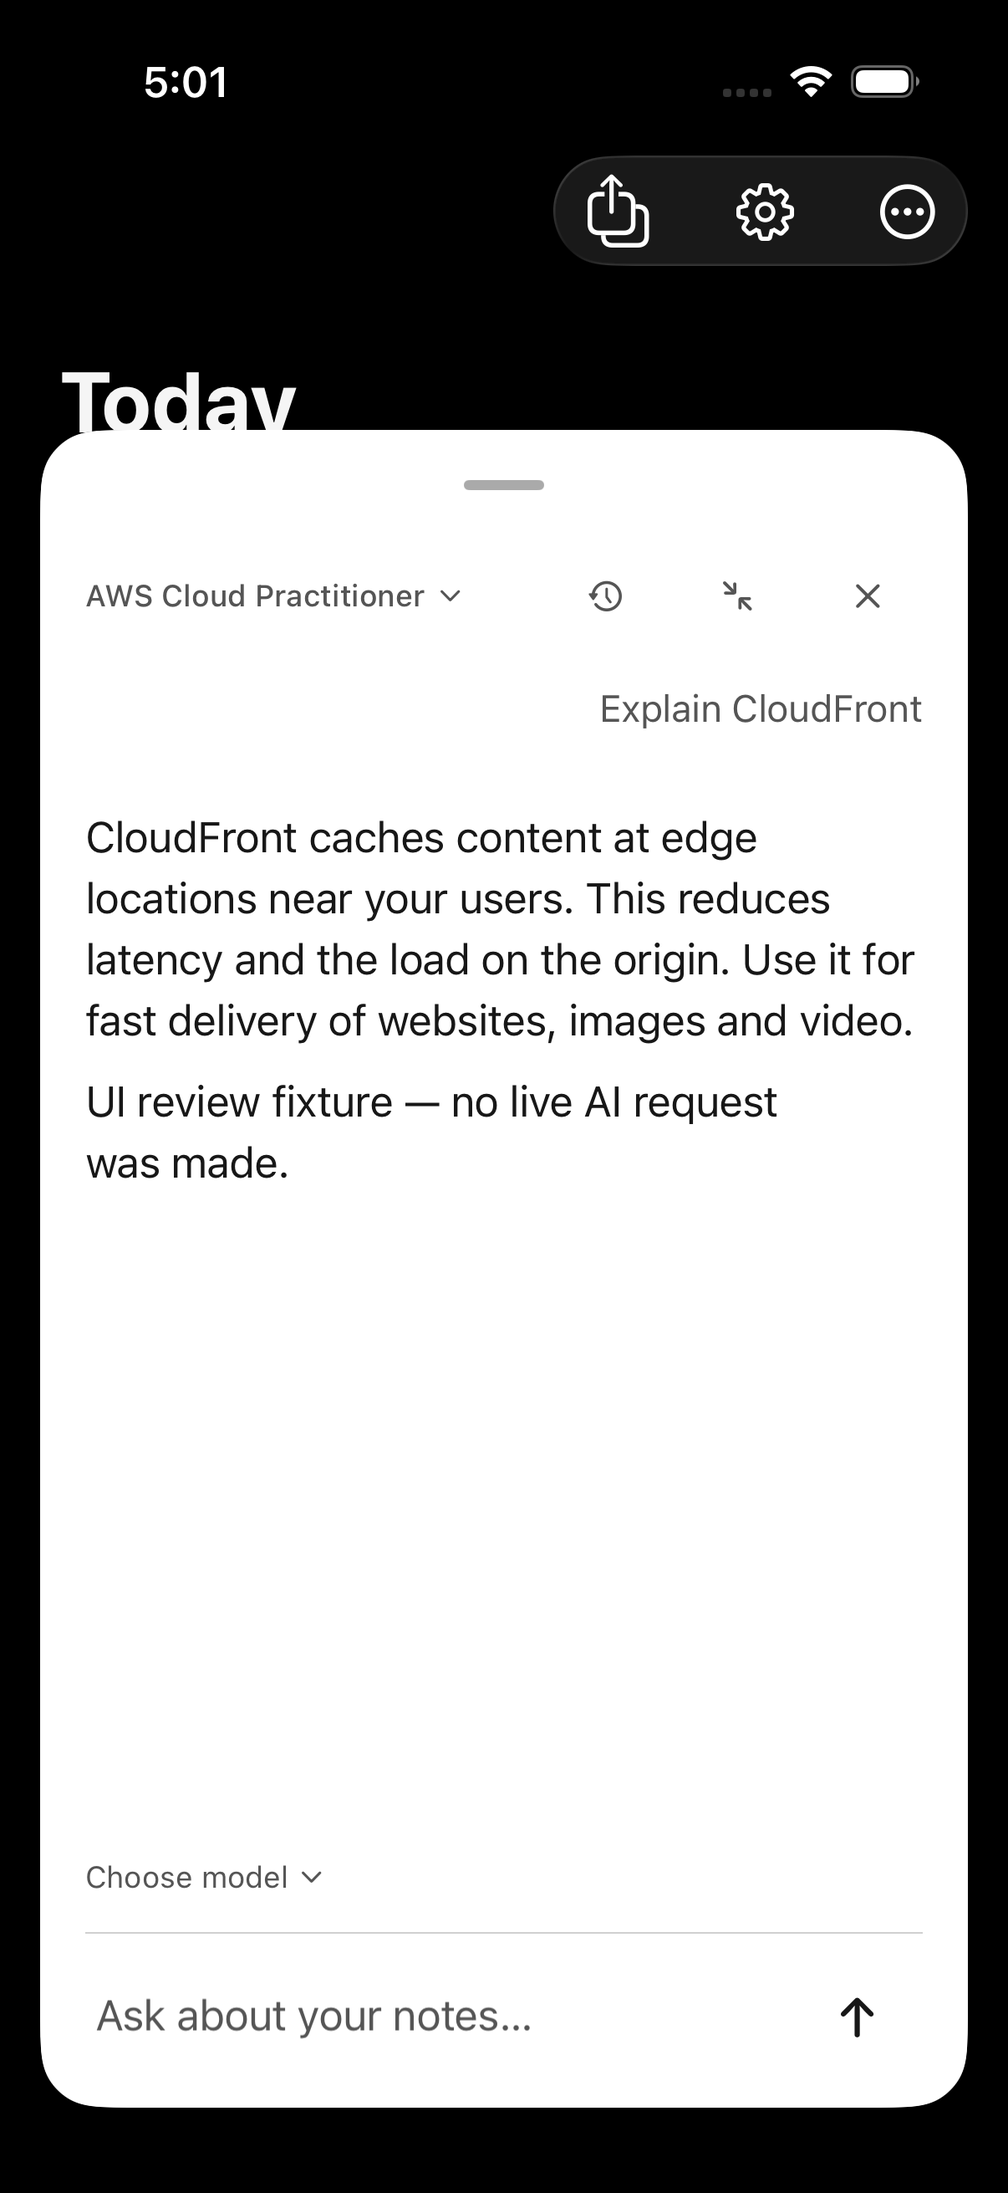
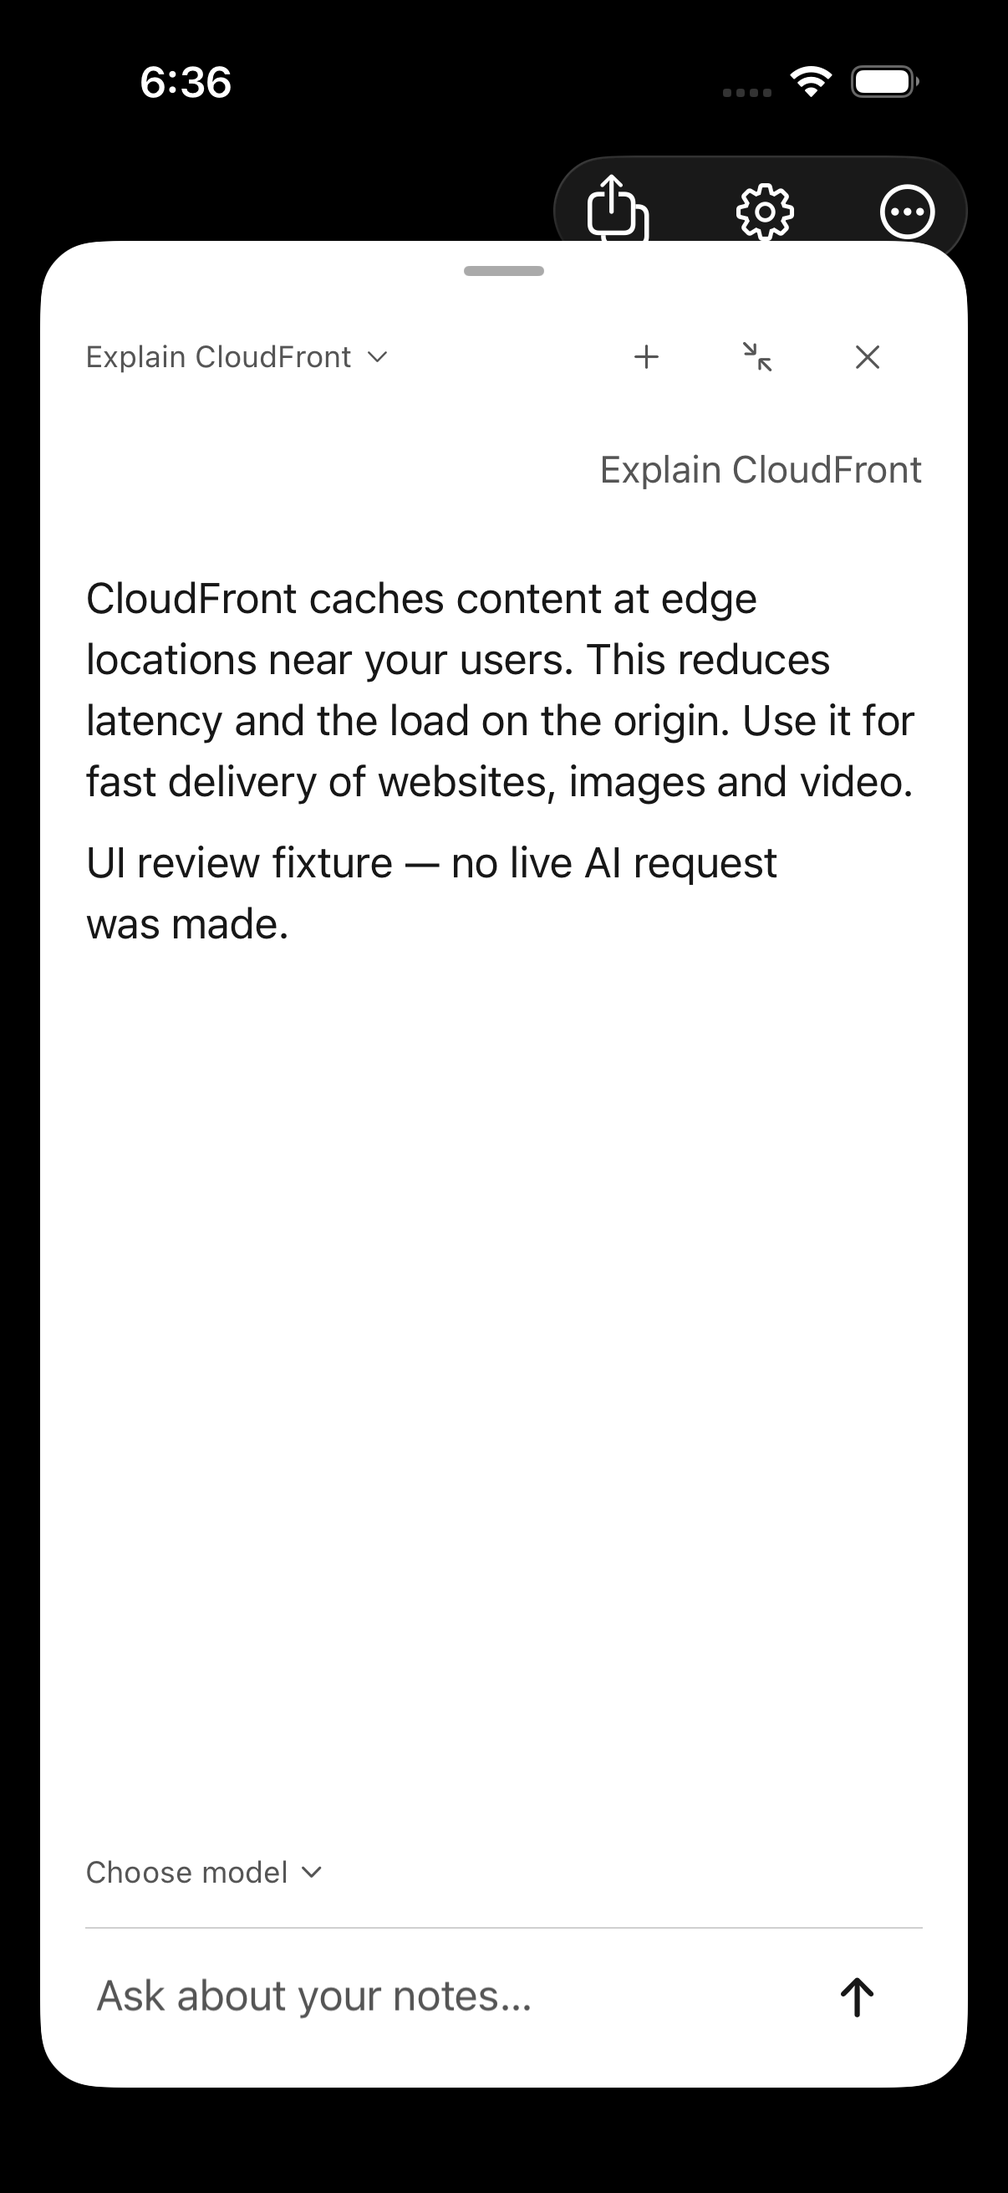
Refine assistant glass composer and outlined content-sized chat

diff --git a/Sources/Features/ContextualAssistant.swift b/Sources/Features/ContextualAssistant.swift
@@ -2,6 +2,10 @@ import AIInfrastructure
 import SwiftUI
 import LearningCore
 import DesignSystem
+private struct AssistantTranscriptHeight: PreferenceKey {
+    static let defaultValue: CGFloat = 90
+    static func reduce(value: inout CGFloat, nextValue: () -> CGFloat) { value = nextValue() }
+}
 #if os(iOS)
 import UIKit
 #endif
@@ -49,6 +53,7 @@ struct ContextualAssistant: View {
     @State private var stage: PanelStage = .closed
     @State private var showingHistory = false
     @State private var selectedHistoryID: String?
+    @State private var transcriptHeight: CGFloat = 90
     @State private var prompt = ""
     @State private var composerEpoch = 0
     @State private var messages: [String: [AssistantMessage]] = [:]
@@ -164,9 +169,8 @@ struct ContextualAssistant: View {
                 Spacer(minLength: 0)
                 glassContainer {
                     if open {
-                        assistantSurface(panel(height: geometry.size.height)
+                        panel(height: geometry.size.height)
                             .foregroundStyle(chatPalette.primaryText).tint(chatPalette.accentInk)
-                            .environment(\.colorScheme, chatScheme), open: true)
                             .environment(\.colorScheme, chatScheme)
                     }
                     else { dock(narrow: phoneDock || geometry.size.width < 600) }
@@ -212,31 +216,40 @@ struct ContextualAssistant: View {
         #endif
     }
     @ViewBuilder private func assistantSurface<Content: View>(_ content: Content, open: Bool) -> some View {
-        if open && theme == .monochrome {
-            invertedChatSurface(content)
-        } else {
         #if os(iOS)
-        if #available(iOS 26.0, *), !reduceTransparency, contrast != .increased {
-            content.glassEffect(.regular.tint(open ? palette.selection : .clear).interactive(), in: .rect(cornerRadius: open ? 24 : 25))
-                .glassEffectID("assistant", in: glassNamespace)
-        } else { fallbackSurface(content, open: open) }
+        if #available(iOS 26.0,*), !reduceTransparency, contrast != .increased {
+            content.glassEffect(.regular.interactive(),in:.capsule)
+                .glassEffectID("assistant",in:glassNamespace)
+        } else { fallbackSurface(content,open:false) }
         #else
-        fallbackSurface(content, open: open)
+        fallbackSurface(content,open:false)
         #endif
-        }
     }
-    @ViewBuilder private func invertedChatSurface<Content: View>(_ content: Content) -> some View {
-        let surface = content.background(chatPalette.canvas, in: RoundedRectangle(cornerRadius: 24))
+    @ViewBuilder private func composerSurface<Content: View>(_ content: Content) -> some View {
         #if os(iOS)
-        if #available(iOS 26.0, *), !reduceTransparency, contrast != .increased {
-            surface.glassEffect(.clear.interactive(), in: .rect(cornerRadius: 24))
-                .glassEffectID("assistant", in: glassNamespace)
-        } else {
-            surface.matchedGeometryEffect(id: reduceMotion ? "panel" : "assistant", in: glassNamespace)
-        }
+        if #available(iOS 26.0,*), !reduceTransparency, contrast != .increased {
+            content.background(chatPalette.canvas.opacity(0.78),in:Capsule())
+                .glassEffect(.clear.tint(chatPalette.canvas.opacity(0.15)).interactive(),in:.capsule)
+                .glassEffectID("assistant",in:glassNamespace)
+        } else { composerFallback(content) }
         #else
-        surface.matchedGeometryEffect(id: reduceMotion ? "panel" : "assistant", in: glassNamespace)
+        composerFallback(content)
         #endif
+    }
+    private func composerFallback<Content: View>(_ content: Content) -> some View {
+        content.background(chatPalette.canvas.opacity(reduceTransparency || contrast == .increased ? 1 : 0.65),in:Capsule())
+            .background(.regularMaterial,in:Capsule())
+    }
+    @ViewBuilder private var readingBackdrop: some View {
+        if !showsTranscript { Color.clear }
+        else if reduceTransparency || contrast == .increased {
+            Rectangle().fill(chatPalette.canvas)
+                .overlay(Rectangle().strokeBorder(chatPalette.primaryText.opacity(0.18), lineWidth: 1))
+        } else {
+            Rectangle().fill(.regularMaterial)
+                .overlay(chatPalette.canvas.opacity(theme == .monochrome ? 0.78 : 0.68))
+                .overlay(Rectangle().strokeBorder(chatPalette.primaryText.opacity(0.18), lineWidth: 1))
+        }
     }
     private func fallbackSurface<Content: View>(_ content: Content, open: Bool) -> some View {
         content.background(open ? palette.selection : palette.surface, in: RoundedRectangle(cornerRadius: open ? 24 : 25))
@@ -297,7 +310,8 @@ struct ContextualAssistant: View {
     private func close() { composerFocused = false; showingHistory = false; withAnimation(motion) { stage = .closed } }
 
     private func panel(height: CGFloat) -> some View {
-        VStack(spacing: 0) {
+        VStack(spacing: 8) {
+          VStack(spacing:0) {
           Capsule().fill(chatPalette.secondaryText.opacity(0.5)).frame(width:32,height:4)
             .frame(maxWidth:.infinity,minHeight:24).contentShape(Rectangle())
             .gesture(DragGesture(minimumDistance:8).onEnded { value in changeStage(for:value.translation.height) })
@@ -317,11 +331,22 @@ struct ContextualAssistant: View {
                     }.frame(minHeight:44).contentShape(Rectangle())
                 }.accessibilityLabel("Chat history").disabled(busy)
                 Spacer(minLength:8)
+                if showingHistory {
                 Button(action:newChat) { Image(systemName:"plus").frame(width:44,height:44).contentShape(Rectangle()) }
                     .accessibilityLabel("New chat").disabled(busy)
+                }
                 Button { withAnimation(motion) { stage = expanded ? .medium : .expanded } } label: {
                     Image(systemName:expanded ? "arrow.down.right.and.arrow.up.left" : "arrow.up.left.and.arrow.down.right").frame(width:44,height:44).contentShape(Rectangle())
                 }.accessibilityLabel(expanded ? "Collapse assistant" : "Expand assistant")
+                Menu {
+                    ForEach(model.aiMarker.models, id: \.self) { id in
+                        Button(model.aiMarker.title(for:id)) { Task { await model.assistant.selectModel(id, contextID: activeConversationID, model: model) } }
+                    }
+                    if model.chatGPT.activeAccount == nil { Button("Connect ChatGPT") { close(); model.settingsRoute = "AI & Connections"; model.settingsPresented = true } }
+                    Button("Refresh models") { Task { await model.aiMarker.loadModels(connection: model.chatGPT) } }
+                } label: {
+                    Image(systemName:"ellipsis").font(.caption).frame(width:44,height:44).contentShape(Rectangle())
+                }.buttonStyle(.plain).accessibilityLabel("AI model: " + model.aiMarker.title(for:model.library.assistantState?.conversations.first(where: { $0.id == activeConversationID })?.modelID ?? model.aiMarker.chatModel)).disabled(busy)
                 Button(action:close) { Image(systemName:"xmark").frame(width:44,height:44).contentShape(Rectangle()) }
                     .accessibilityLabel("Close assistant")
             }.font(.caption).foregroundStyle(chatPalette.secondaryText).buttonStyle(.plain)
@@ -352,7 +377,7 @@ struct ContextualAssistant: View {
                                     RichContentView(source: message.text,
                                         alignment: message.isUser ? .trailing : .leading,
                                         textColor: message.isUser ? chatPalette.secondaryText : chatPalette.primaryText)
-                                        .font(message.isUser ? .subheadline : .body)
+                                        .font(message.isUser ? .subheadline.italic() : .body)
                                         .foregroundStyle(message.isUser ? chatPalette.secondaryText : chatPalette.primaryText)
                                         .multilineTextAlignment(message.isUser ? .trailing : .leading)
                                     if !message.isUser {
@@ -374,9 +399,12 @@ struct ContextualAssistant: View {
                             if busy { ProgressView("Thinking…").font(.caption) }
                             Color.clear.frame(height:1).id("assistant-bottom")
                         }.padding(.vertical, 10)
+                        .background(GeometryReader { content in Color.clear.preference(key:AssistantTranscriptHeight.self,value:content.size.height) })
                     }
+                    .accessibilityIdentifier("assistant-transcript")
                     .scrollDismissesKeyboard(.never)
-                    .frame(height: min(max(90, height * (expanded ? 0.72 : 0.32)), max(90, height - 170)))
+                    .frame(height: expanded ? min(max(90,height * 0.72),max(90,height - 160)) : min(max(80,transcriptHeight),min(max(90,height * 0.45),max(90,height - 160))))
+                    .onPreferenceChange(AssistantTranscriptHeight.self) { transcriptHeight = $0 }
                     .assistantScrollAnchors()
                     .onAppear { scrollChatToBottom(proxy) }
                     .onChange(of: thread.count) { _, _ in scrollChatToBottom(proxy) }
@@ -385,7 +413,7 @@ struct ContextualAssistant: View {
                     .onChange(of: model.assistant.output) { _, _ in scrollChatToBottom(proxy) }
                 }
             } else {
-                Color.clear.frame(height:min(max(90,height * (expanded ? 0.72 : 0.32)),max(90,height - 170)))
+                Color.clear.frame(height:expanded ? min(max(90,height * 0.72),max(90,height - 160)) : 24)
             }
           }
             if showsTranscript, let action = recentSavedAction,let change = action.changes.last(where: { $0.undoneAt == nil }),!showingHistory {
@@ -399,21 +427,8 @@ struct ContextualAssistant: View {
                 Button("Connect ChatGPT in Settings") { close(); model.settingsPresented = true }
                     .font(.caption.weight(.medium)).frame(maxWidth: .infinity, minHeight: 38, alignment: .leading)
             }
-            if showsTranscript && !showingHistory {
+            if busy || recentSavedAction != nil {
             HStack {
-                Menu {
-                    ForEach(model.aiMarker.models, id: \.self) { id in
-                        Button(model.aiMarker.title(for:id)) { Task { await model.assistant.selectModel(id, contextID: activeConversationID, model: model) } }
-                    }
-                    if model.chatGPT.activeAccount == nil { Button("Connect ChatGPT") { close(); model.settingsRoute = "AI & Connections"; model.settingsPresented = true } }
-                    Button("Refresh models") { Task { await model.aiMarker.loadModels(connection: model.chatGPT) } }
-                } label: {
-                    HStack(spacing: 4) {
-                        Text(model.aiMarker.title(for:model.library.assistantState?.conversations.first(where: { $0.id == activeConversationID })?.modelID ?? model.aiMarker.chatModel)).lineLimit(1)
-                        Image(systemName: "chevron.down").font(.system(size: 9, weight: .medium))
-                    }.foregroundStyle(chatPalette.secondaryText)
-                        .frame(minWidth:44,minHeight:44).contentShape(Rectangle())
-                }.buttonStyle(.plain).accessibilityLabel("AI model: " + model.aiMarker.title(for:model.library.assistantState?.conversations.first(where: { $0.id == activeConversationID })?.modelID ?? model.aiMarker.chatModel)).disabled(busy)
                 Spacer()
                 if busy { Button("Stop") { model.assistant.cancel() } }
                 if recentSavedAction != nil {
@@ -421,8 +436,10 @@ struct ContextualAssistant: View {
                 }
             }.font(.caption).frame(minHeight: 44)
             }
+          }.padding(.horizontal,16).padding(.bottom,12)
+            .background(readingBackdrop)
             if !showingHistory {
-            HStack(spacing: 10) {
+            composerSurface(HStack(spacing: 10) {
                 if !showsTranscript { Image(systemName: "sparkle").foregroundStyle(chatPalette.accentInk) }
                 TextField("", text: $prompt,
                     prompt: Text(model.pdfLearningPresented ? "Ask about this PDF…" : "Ask about your notes…").foregroundStyle(chatPalette.secondaryText), axis: .vertical)
@@ -440,11 +457,7 @@ struct ContextualAssistant: View {
                         .accessibilityLabel("Close assistant")
                 }
             }
-            .padding(.horizontal, 4).padding(.vertical, 2)
-            .padding(.top, showsTranscript ? 4 : 0)
-            .overlay(alignment: .top) {
-                if showsTranscript { Rectangle().fill(chatPalette.hairline).frame(height: 0.5) }
-            }
+            .padding(.horizontal,16).padding(.vertical,4))
             }
             if thread.isEmpty && expanded && !showingHistory {
                 Button(model.reviewPresented ? "Give me a hint" : model.editorPresented || model.creationPresented ? "Suggest a question" : "Explain this simply") {
@@ -455,7 +468,7 @@ struct ContextualAssistant: View {
                 }.font(.caption).frame(maxWidth: .infinity, minHeight: 38, alignment: .leading)
             }
         }
-        .padding(.horizontal, 18).padding(.bottom, 12)
+        .padding(.bottom,4)
         .frame(maxWidth: 530)
     }
 
@@ -509,7 +522,7 @@ struct ContextualAssistant: View {
         #if DEBUG
         if ProcessInfo.processInfo.arguments.contains("--ui-testing"), ProcessInfo.processInfo.arguments.contains("--ui-assistant-fixture") {
             messages[activeConversationID, default: []].append(AssistantMessage(isUser: true, text: question, sources: []))
-            messages[activeConversationID, default: []].append(AssistantMessage(isUser: false, text: question.localizedCaseInsensitiveContains("formula") ? #"For a quadratic equation, \(ax^2+bx+c=0\), the roots are:\#n\#n\[x=\frac{-b\pm\sqrt{b^2-4ac}}{2a}\]"# : "CloudFront caches content at edge locations near your users. This reduces latency and the load on the origin. Use it for fast delivery of websites, images and video.\n\nUI review fixture — no live AI request was made.", sources: []))
+            messages[activeConversationID, default: []].append(AssistantMessage(isUser: false, text: question.localizedCaseInsensitiveContains("brief") ? "CloudFront is AWS’s content delivery network." : question.localizedCaseInsensitiveContains("formula") ? #"For a quadratic equation, \(ax^2+bx+c=0\), the roots are:\#n\#n\[x=\frac{-b\pm\sqrt{b^2-4ac}}{2a}\]"# : "CloudFront caches content at edge locations near your users. This reduces latency and the load on the origin. Use it for fast delivery of websites, images and video.\n\nUI review fixture — no live AI request was made.", sources: []))
             prompt = ""; composerFocused = false; composerEpoch += 1; return
         }
         #endif

diff --git a/Tests/EngramUITests/MinimalistStudyUITests.swift b/Tests/EngramUITests/MinimalistStudyUITests.swift
@@ -1,6 +1,20 @@
 import XCTest
 
 final class MinimalistStudyUITests: XCTestCase {
+    @MainActor func testShortChatFitsItsContent() {
+        let app = launch()
+        XCTAssertTrue(app.buttons["assistant-entry"].waitForExistence(timeout:15)); app.buttons["assistant-entry"].tap()
+        let composer = app.textFields["assistant-composer"].firstMatch.exists ? app.textFields["assistant-composer"].firstMatch : app.textViews["assistant-composer"].firstMatch
+        composer.tap(); composer.typeText("Explain briefly")
+        app.buttons["Send message"].tap()
+        XCTAssertTrue(app.staticTexts["CloudFront is AWS’s content delivery network."].waitForExistence(timeout:5))
+        let transcript = app.scrollViews["assistant-transcript"]
+        XCTAssertTrue(transcript.exists)
+        XCTAssertLessThan(transcript.frame.height,220)
+        capture("Assistant-Short-Reply",app)
+        app.buttons["Expand assistant"].tap()
+        XCTAssertGreaterThan(transcript.frame.height,300)
+    }
     @MainActor func testChatTitleSwitchingDeletionAndNewChat() {
         let app = launch(extra:["--ui-history-fixture"])
         XCTAssertTrue(app.buttons["assistant-entry"].waitForExistence(timeout:15))
@@ -16,6 +30,7 @@ final class MinimalistStudyUITests: XCTestCase {
         XCTAssertTrue(app.buttons["Delete"].waitForExistence(timeout:5)); app.buttons["Delete"].tap()
         XCTAssertFalse(saved.waitForExistence(timeout:2))
         app.otherElements["assistant-drag-handle"].swipeUp()
+        app.buttons["Chat history"].tap()
         app.buttons["New chat"].tap()
         XCTAssertFalse(app.buttons["Chat history"].exists)
         capture("Assistant-New-Chat",app)
@@ -417,6 +432,9 @@ final class MinimalistStudyUITests: XCTestCase {
         app.launch(); return app
     }
     @MainActor private func capture(_ name: String, _ app: XCUIApplication) {
+        let settled = expectation(description:"Surface animation settled")
+        DispatchQueue.main.asyncAfter(deadline:.now() + 0.6) { settled.fulfill() }
+        wait(for:[settled],timeout:2)
         let image = XCTAttachment(screenshot: XCUIScreen.main.screenshot())
         image.name = name; image.lifetime = .keepAlways; add(image)
     }

diff --git a/docs/AI-CHAT-INTERACTION-REVISION.md b/docs/AI-CHAT-INTERACTION-REVISION.md
@@ -29,3 +29,15 @@ Final checks: all 17 focused logic tests passed. Seven distinct simulator scenar
 Device delivery: the SSH build initially failed with `errSecInternalComponent` at code signing. Running the existing build script in the Mac Terminal session succeeded. The updated app was installed and launched on the paired iPhone at 18:44 on 3 October 2026; `/tmp/engram-dev-phone.status` reports `LAUNCHED` and the device log confirms `dev.engram.study`.
 
 Keyboard focus follow-up: expansion/collapse buttons and drag gestures no longer clear composer focus. Only the final drag to closed dismisses the keyboard. The simulator regression passed keyboard return, both resize buttons, upward expansion and downward medium/compact stages with the keyboard still visible (`/tmp/engram-chat-focus.xcresult`). Current/previous stage screenshots were refreshed. Bubble layout and more translucent keyboard styling remain discussion proposals.
+
+## Open conversation and tinted glass composer
+
+The large rounded chat enclosure is replaced by two independent surfaces: a slim native Liquid Glass capsule for input, and a straight-edged reading backdrop with a subtle one-point outline and no gradient cutoff. Mono keeps the opposite colour palette, now with translucent tint rather than a fully solid canvas. Warm uses the existing themed canvas. Reduced Transparency or increased contrast supplies a solid reading backdrop; earlier platforms use system material for the composer.
+
+Medium chat height follows measured transcript content up to a viewport limit. Expanded chat retains a larger scrollable reading area. User messages use quieter italic typography. Model selection moves into the header's small menu, and the new-chat plus appears in the history view. Keyboard focus, source links, offline equation rendering, confirmation and action review remain available.
+
+Initial screenshot inspection revealed that a large native glass background could blur the foreground transcript even though accessibility interactions passed. The reading surface therefore uses a system material behind sharp text, while native interactive glass stays on the composer. Screenshot captures now allow the short surface animation to settle before recording a state. An explicit short-answer scenario checks that medium chat does not reserve an unnecessary fixed-height region.
+
+Visual follow-up: removed the top/bottom fade at the user’s request. The reading surface now has flat boundaries and a restrained outline in every theme, including the accessibility fallback.
+
+Final outline validation: all three simulator checks passed (both Mono themes and short/expanded reply height) in /tmp/engram-chat-flat-outline.xcresult. Earlier checks covered drag/keyboard return, formulas, and history/new/delete. Final screenshots were inspected and saved with one previous capture per view. The signed app installed on the paired iPhone at 19:31 on 3 October 2026; launch was blocked only by the locked phone. No live-model streaming claim is made by these fixture tests.
